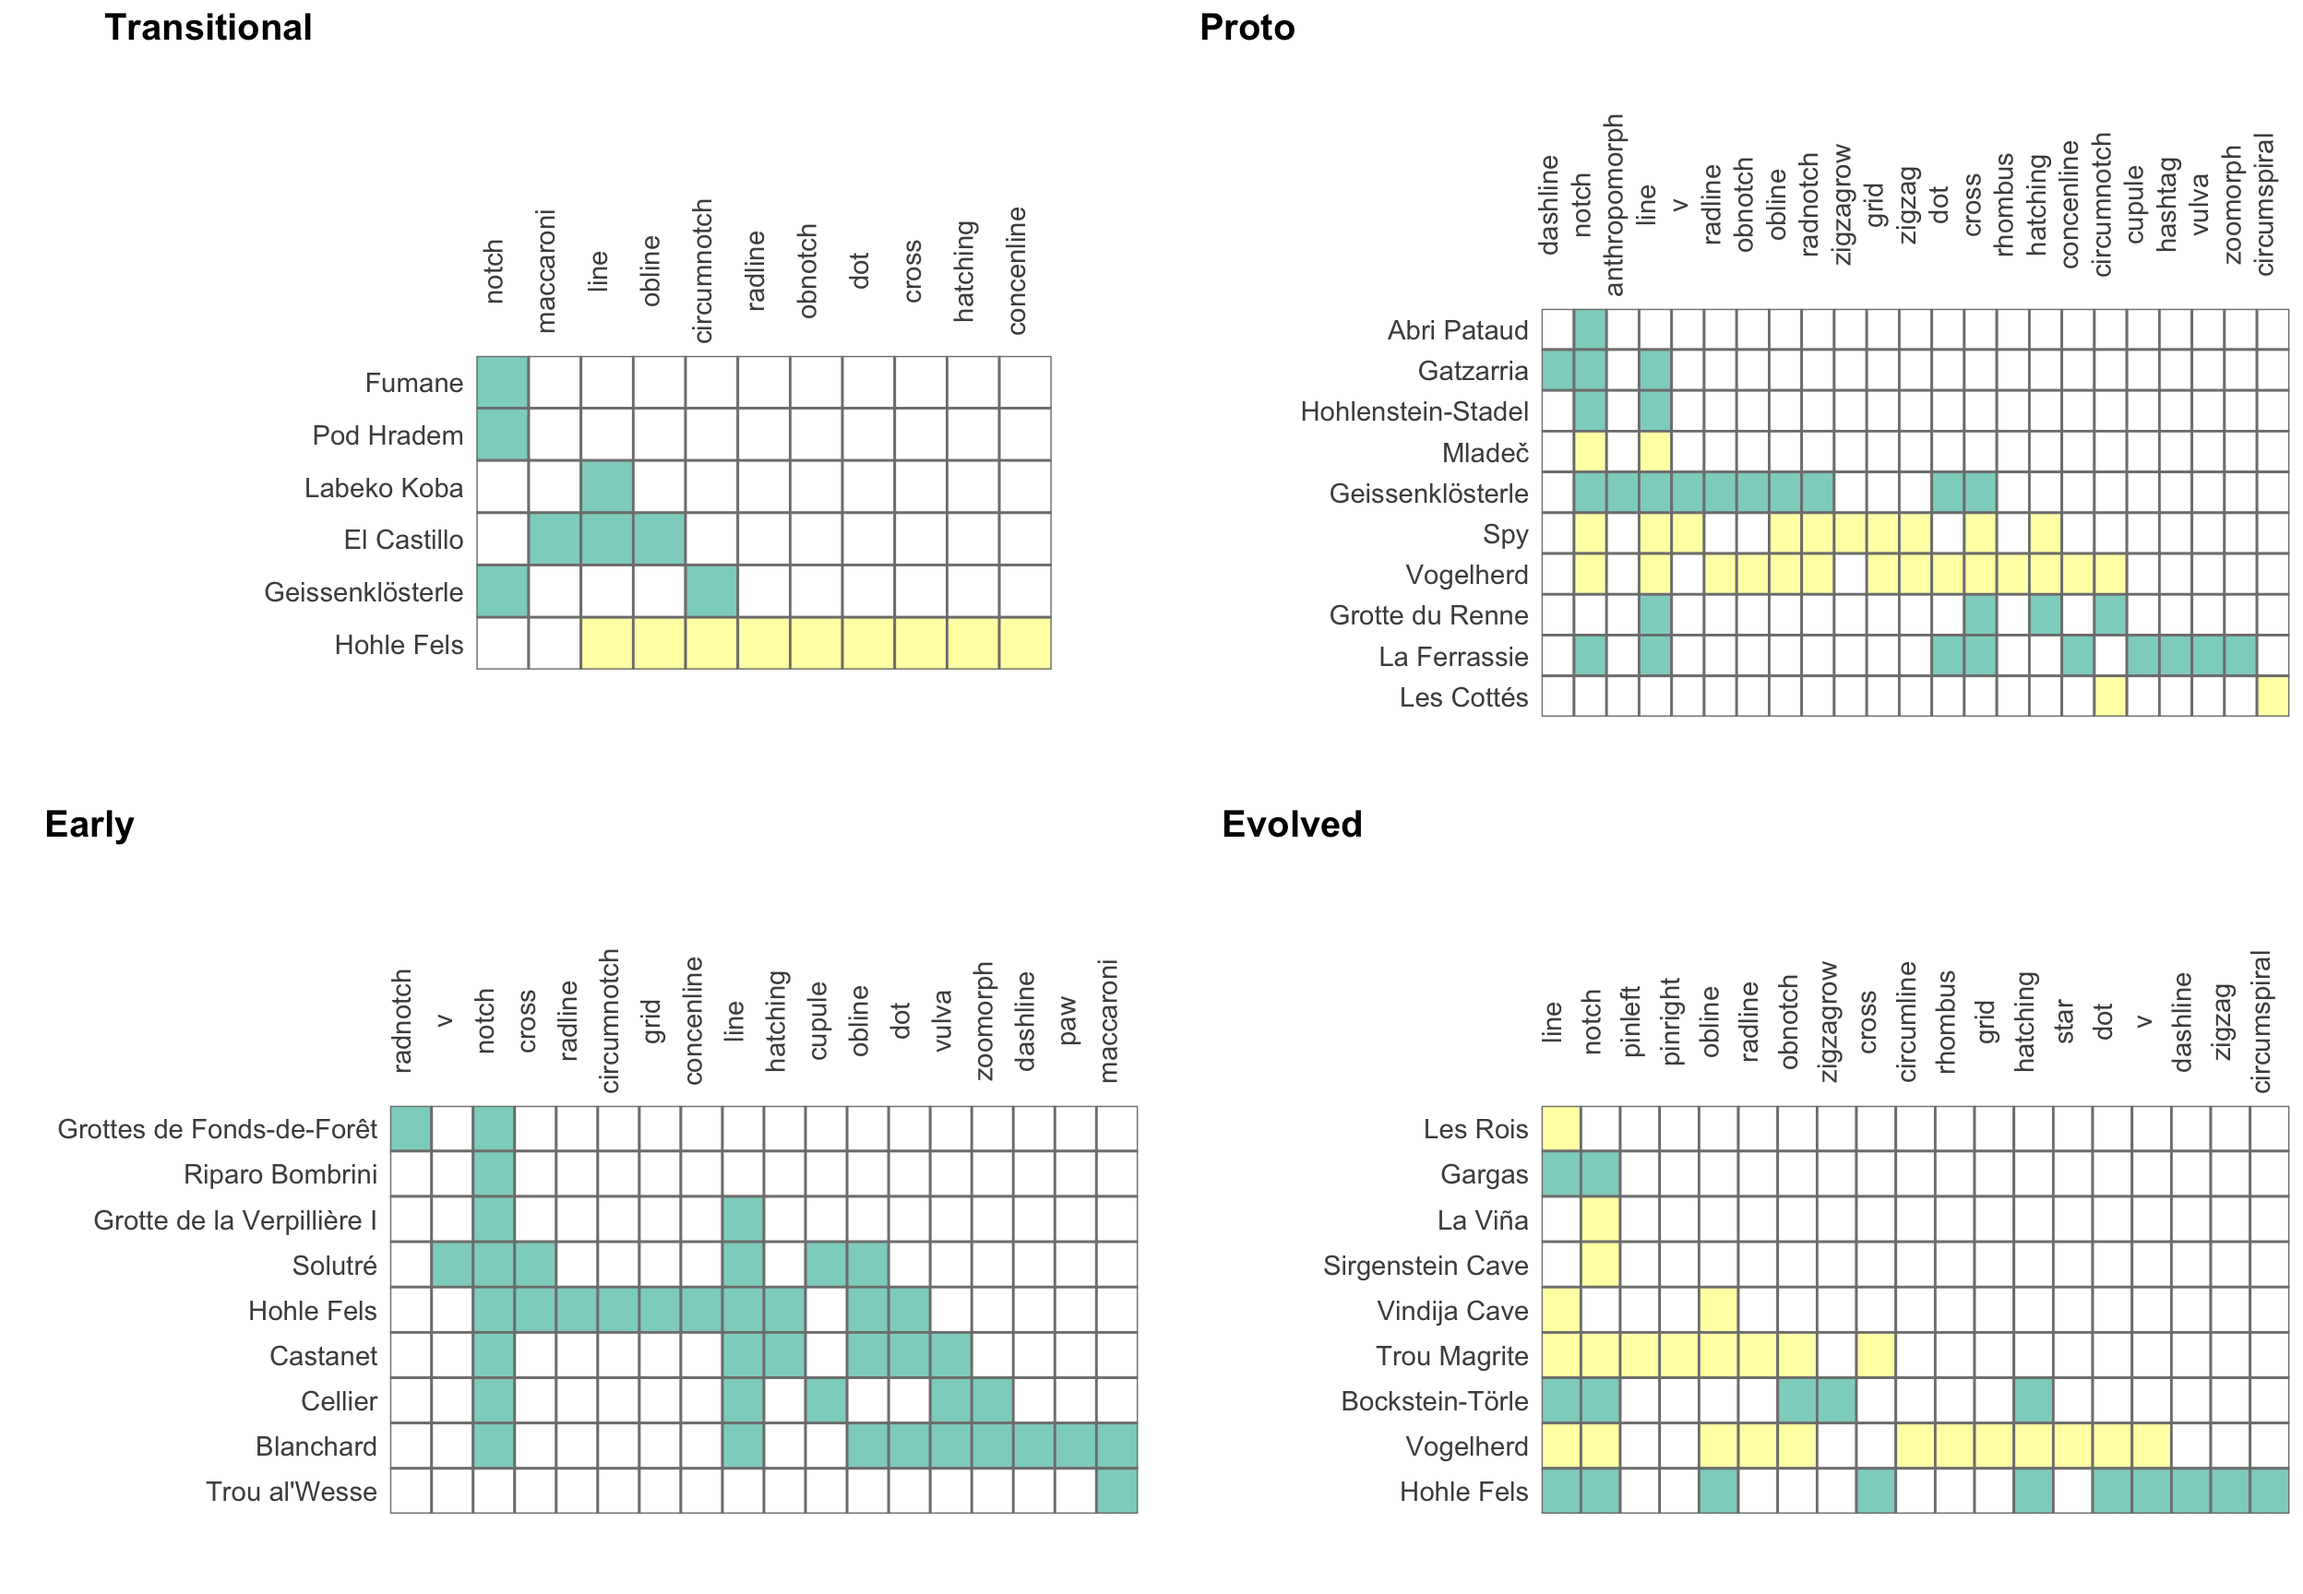
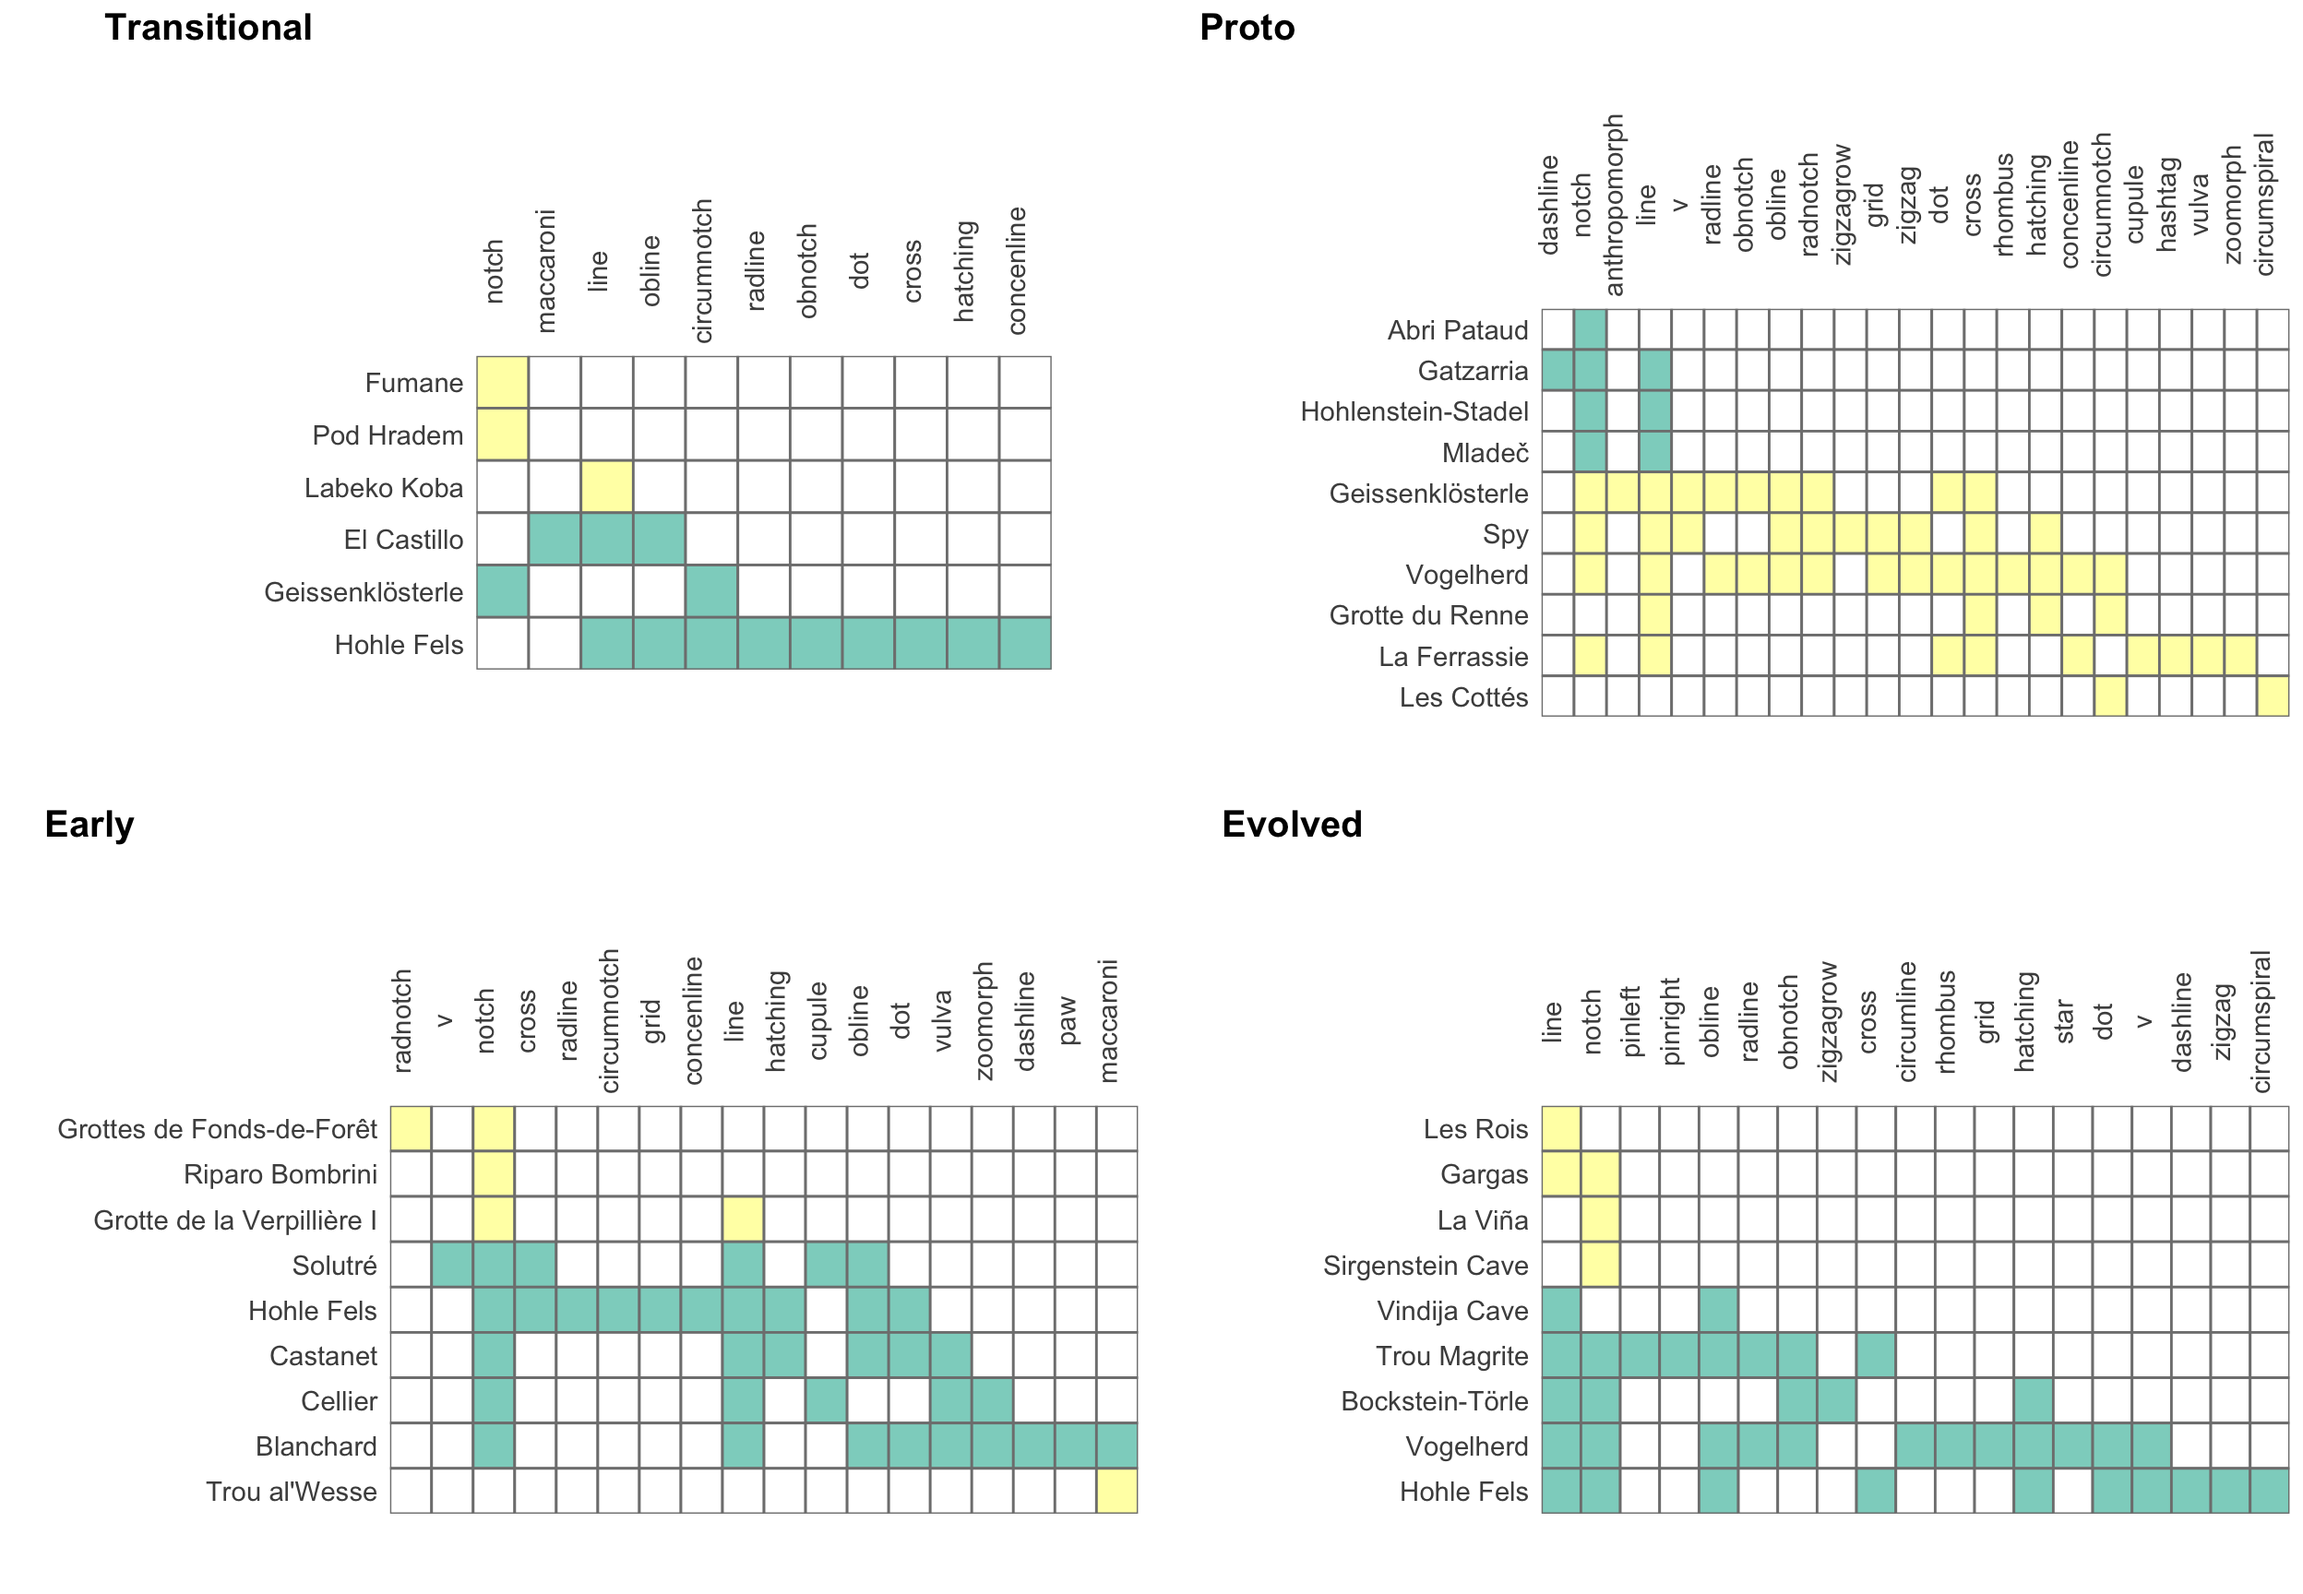
edits

diff --git a/endofquarterpaper.html b/endofquarterpaper.html
@@ -8,7 +8,7 @@
 
 <meta name="author" content="Sophie Cooper">
 
-<title>Changes in Groupings of Geometric Signs on Paleolithic Mobile Objects as a Model of Social Dynamics Across Aurignacian Time Periods</title>
+<title>Changes in Groupings of Geometric Signs as a Model of Social Dynamics Across Aurignacian Periods</title>
 <style>
 code{white-space: pre-wrap;}
 span.smallcaps{font-variant: small-caps;}
@@ -66,7 +66,7 @@ div.csl-indent {
 
 <header id="title-block-header" class="quarto-title-block default">
 <div class="quarto-title">
-<h1 class="title">Changes in Groupings of Geometric Signs on Paleolithic Mobile Objects as a Model of Social Dynamics Across Aurignacian Time Periods</h1>
+<h1 class="title">Changes in Groupings of Geometric Signs as a Model of Social Dynamics Across Aurignacian Periods</h1>
 </div>
 
 
@@ -170,9 +170,9 @@ Figure&nbsp;2: Graph of artifact count by time period and map of sites, divided 
 </div>
 </div>
 <p>Our data for this paper comes from SignBase, an open-access database collection of geometric signs on mobile objects from Paleolithic-era Europe, which was launched in 2020, with the explicit goal being to enable quantitative analyses of abstract geographical representation <span class="citation" data-cites="dutkiewicz2020">(<a href="#ref-dutkiewicz2020" role="doc-biblioref">Dutkiewicz et al. 2020</a>)</span>. The creators of the database identified distinct geometric sign types, and recorded their occurrences on mobile artefacts from the Paleolithic. Identification and categorization of the sign types had already been performed by the creators of the SignBase database, the methods for which are described in <span class="citation" data-cites="dutkiewicz2020">Dutkiewicz et al. (<a href="#ref-dutkiewicz2020" role="doc-biblioref">2020</a>)</span>, and we adhered to those categories and placements.</p>
-<p>The data set consists of 531 artifacts found at 65 sites in 13 countries, and records 55 geometric sign type found on these artifacts. We excluded signs if they fell under the “other” category, as the wide range of possibilities that could qualify as “other” means that it would be difficult to establish a definitive connection. We also excluded all data from Willendorf (only one sign present), and Riparo di Fontana Nuova, Muralovka, Shanidar Cave, and Hayonim Cave (due to their extreme geographic distance from the other sites). Lastly, data from Grotte De La Princesse Pauline and Šandalja II was excluded, due to being dated much earlier than the rest of the artifacts.</p>
-<p>These exclusions resulted in 438 artifacts found at 30 sites in 7 countries, encapsulating 54 sign types. All our tests were run with presence/absence data, in order to keep the data from being affected by outliers like Vogelherd. We ran a Mantel test between an abundance distance matrix and and a Euclidean distance matrix in order to make sure that the exclusion of abundance would not significantly impact our results <span class="citation" data-cites="Lycett_2019">(<a href="#ref-Lycett_2019" role="doc-biblioref">Lycett 2019</a>)</span>, and found that it was not quite statistically significant (P = 0.072, Mantel R = 0.109).</p>
+<p>The data set consists of 531 artifacts found at 65 sites in 13 countries, and records 55 geometric sign type found on these artifacts. We excluded signs if they fell under the “other” category, as the wide range of possibilities that could qualify as “other” means that it would be difficult to establish a definitive connection. We also excluded all data from Willendorf (only one sign present), and Riparo di Fontana Nuova, Muralovka, Shanidar Cave, and Hayonim Cave (due to their extreme geographic distance from the other sites). Lastly, data from Grotte De La Princesse Pauline and Šandalja II was excluded, due to being dated much earlier than the rest of the artifacts.These exclusions resulted in 438 artifacts found at 30 sites in 7 countries, encapsulating 54 sign types.</p>
 <p>Maximum and minimum BP dates were provided by Signbase, and calibration was done through the rcarbon package in RStudio <span class="citation" data-cites="Crema_Bevan_2021">(<a href="#ref-Crema_Bevan_2021" role="doc-biblioref">Crema and Bevan 2021</a>)</span>. The calibrated radiocarbon dates of the artifacts range from approximately 32,893 BP to 44,778 BP, spanning an overall time range of 11,885 years. We divided the data up into four periods in accordance with the date ranges provided in <a href="#fig-aur-table" class="quarto-xref">Figure&nbsp;1</a>.</p>
+<p>All our tests were run with presence/absence data, in order to keep the data from being affected by outliers like Vogelherd. We ran a Mantel test between an Euclidean abundance distance matrix and a jaccard distance matrix of the sign types in order to make sure that the exclusion of abundance would not significantly impact our results <span class="citation" data-cites="Lycett_2019">(<a href="#ref-Lycett_2019" role="doc-biblioref">Lycett 2019</a>)</span>, and found that it was not quite statistically significant (P = 0.072, Mantel R = 0.109). Another Mantel test was run between a euclidean distance matrix for MedianBP and the jaccard sign type matrix in order to determine whether there was a definitive correlation between distance in time and sign types. The Mantel test found that there was a statistically significant correlation (p = 0.008, Mantel-R = 0.06).</p>
 </section>
 <section id="testing-for-cultural-groupings" class="level2">
 <h2 class="anchored" data-anchor-id="testing-for-cultural-groupings">Testing for Cultural Groupings</h2>
@@ -332,119 +332,62 @@ Figure&nbsp;7: Bar plot of signs by time period, colored by group
 <div class="cell">
 <div class="cell-output-display">
 <table class="caption-top table table-sm table-striped small">
+<colgroup>
+<col style="width: 19%">
+<col style="width: 16%">
+<col style="width: 18%">
+<col style="width: 18%">
+<col style="width: 13%">
+<col style="width: 13%">
+</colgroup>
 <thead>
 <tr class="header">
 <th style="text-align: left;">time period</th>
 <th style="text-align: right;">modularity</th>
+<th style="text-align: right;">permanova r</th>
+<th style="text-align: right;">permanova p</th>
+<th style="text-align: right;">mantel r</th>
+<th style="text-align: right;">mantel p</th>
 </tr>
 </thead>
 <tbody>
 <tr class="odd">
 <td style="text-align: left;">transitional</td>
 <td style="text-align: right;">0.4897959</td>
+<td style="text-align: right;">0.2330009</td>
+<td style="text-align: right;">0.300</td>
+<td style="text-align: right;">0.421</td>
+<td style="text-align: right;">0.081</td>
 </tr>
 <tr class="even">
 <td style="text-align: left;">proto</td>
 <td style="text-align: right;">0.4958678</td>
+<td style="text-align: right;">0.2741417</td>
+<td style="text-align: right;">0.012</td>
+<td style="text-align: right;">-0.188</td>
+<td style="text-align: right;">0.872</td>
 </tr>
 <tr class="odd">
 <td style="text-align: left;">early</td>
 <td style="text-align: right;">0.4938272</td>
+<td style="text-align: right;">0.2100885</td>
+<td style="text-align: right;">0.012</td>
+<td style="text-align: right;">0.259</td>
+<td style="text-align: right;">0.075</td>
 </tr>
 <tr class="even">
 <td style="text-align: left;">evolved</td>
 <td style="text-align: right;">0.5000000</td>
-</tr>
-</tbody>
-</table>
-</div>
-</div>
-<div class="cell">
-<div class="cell-output-display">
-<table class="caption-top table table-sm table-striped small">
-<thead>
-<tr class="header">
-<th style="text-align: left;">time period</th>
-<th style="text-align: right;">permanova r</th>
-<th style="text-align: right;">permanova p</th>
-</tr>
-</thead>
-<tbody>
-<tr class="odd">
-<td style="text-align: left;">transitional</td>
-<td style="text-align: right;">0.2330009</td>
-<td style="text-align: right;">0.300</td>
-</tr>
-<tr class="even">
-<td style="text-align: left;">proto</td>
-<td style="text-align: right;">0.2741417</td>
-<td style="text-align: right;">0.012</td>
-</tr>
-<tr class="odd">
-<td style="text-align: left;">early</td>
-<td style="text-align: right;">0.2100885</td>
-<td style="text-align: right;">0.012</td>
-</tr>
-<tr class="even">
-<td style="text-align: left;">evolved</td>
 <td style="text-align: right;">0.2312869</td>
 <td style="text-align: right;">0.015</td>
+<td style="text-align: right;">-0.055</td>
+<td style="text-align: right;">0.589</td>
 </tr>
 </tbody>
 </table>
 </div>
 </div>
 <p>The R value from the perMANOVA tests tell us that for each of the time periods, around 20% of the variation in sign content can be explained by group membership, with the proto-aurignacian having the highest score of 27%, and the early Aurignacian having the lowest score of 21%. The perMANOVA p value quantifies the randomness of the groupings, with 0.05 as the threshold for definitive non-randomness. The only time period to not meet that threshold is the transitional period, with a p-score of 0.3.</p>
-<div class="cell">
-<div class="cell-output-display">
-<div id="fig-perm-disp-1" class="quarto-float quarto-figure quarto-figure-center anchored">
-<figure class="quarto-float quarto-float-fig figure">
-<div aria-describedby="fig-perm-disp-1-caption-0ceaefa1-69ba-4598-a22c-09a6ac19f8ca">
-<img src="endofquarterpaper_files/figure-html/fig-perm-disp-1.png" class="img-fluid figure-img" width="480">
-</div>
-<figcaption class="quarto-float-caption-bottom quarto-float-caption quarto-float-fig" id="fig-perm-disp-1-caption-0ceaefa1-69ba-4598-a22c-09a6ac19f8ca">
-Figure&nbsp;8: Multivariate homogeneity of group dispersions
-</figcaption>
-</figure>
-</div>
-</div>
-<div class="cell-output-display">
-<div id="fig-perm-disp-2" class="quarto-float quarto-figure quarto-figure-center anchored">
-<figure class="quarto-float quarto-float-fig figure">
-<div aria-describedby="fig-perm-disp-2-caption-0ceaefa1-69ba-4598-a22c-09a6ac19f8ca">
-<img src="endofquarterpaper_files/figure-html/fig-perm-disp-2.png" class="img-fluid figure-img" width="480">
-</div>
-<figcaption class="quarto-float-caption-bottom quarto-float-caption quarto-float-fig" id="fig-perm-disp-2-caption-0ceaefa1-69ba-4598-a22c-09a6ac19f8ca">
-Figure&nbsp;9: Multivariate homogeneity of group dispersions
-</figcaption>
-</figure>
-</div>
-</div>
-<div class="cell-output-display">
-<div id="fig-perm-disp-3" class="quarto-float quarto-figure quarto-figure-center anchored">
-<figure class="quarto-float quarto-float-fig figure">
-<div aria-describedby="fig-perm-disp-3-caption-0ceaefa1-69ba-4598-a22c-09a6ac19f8ca">
-<img src="endofquarterpaper_files/figure-html/fig-perm-disp-3.png" class="img-fluid figure-img" width="480">
-</div>
-<figcaption class="quarto-float-caption-bottom quarto-float-caption quarto-float-fig" id="fig-perm-disp-3-caption-0ceaefa1-69ba-4598-a22c-09a6ac19f8ca">
-Figure&nbsp;10: Multivariate homogeneity of group dispersions
-</figcaption>
-</figure>
-</div>
-</div>
-<div class="cell-output-display">
-<div id="fig-perm-disp-4" class="quarto-float quarto-figure quarto-figure-center anchored">
-<figure class="quarto-float quarto-float-fig figure">
-<div aria-describedby="fig-perm-disp-4-caption-0ceaefa1-69ba-4598-a22c-09a6ac19f8ca">
-<img src="endofquarterpaper_files/figure-html/fig-perm-disp-4.png" class="img-fluid figure-img" width="480">
-</div>
-<figcaption class="quarto-float-caption-bottom quarto-float-caption quarto-float-fig" id="fig-perm-disp-4-caption-0ceaefa1-69ba-4598-a22c-09a6ac19f8ca">
-Figure&nbsp;11: Multivariate homogeneity of group dispersions
-</figcaption>
-</figure>
-</div>
-</div>
-</div>
 </section>
 <section id="testing-isolation-by-distance-hypothesis-1" class="level2">
 <h2 class="anchored" data-anchor-id="testing-isolation-by-distance-hypothesis-1">Testing Isolation-by-Distance Hypothesis</h2>
